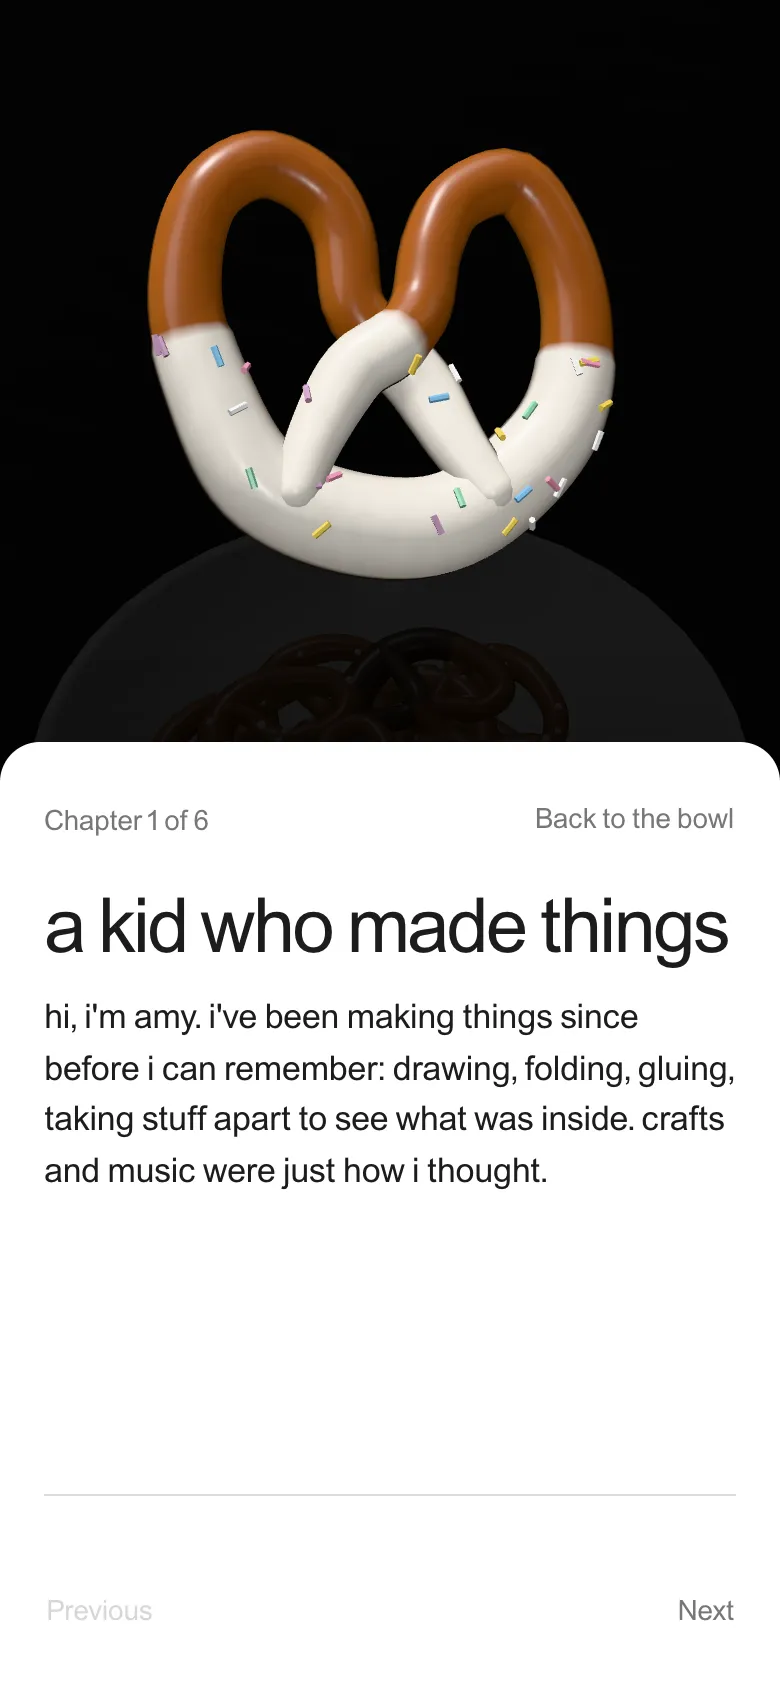
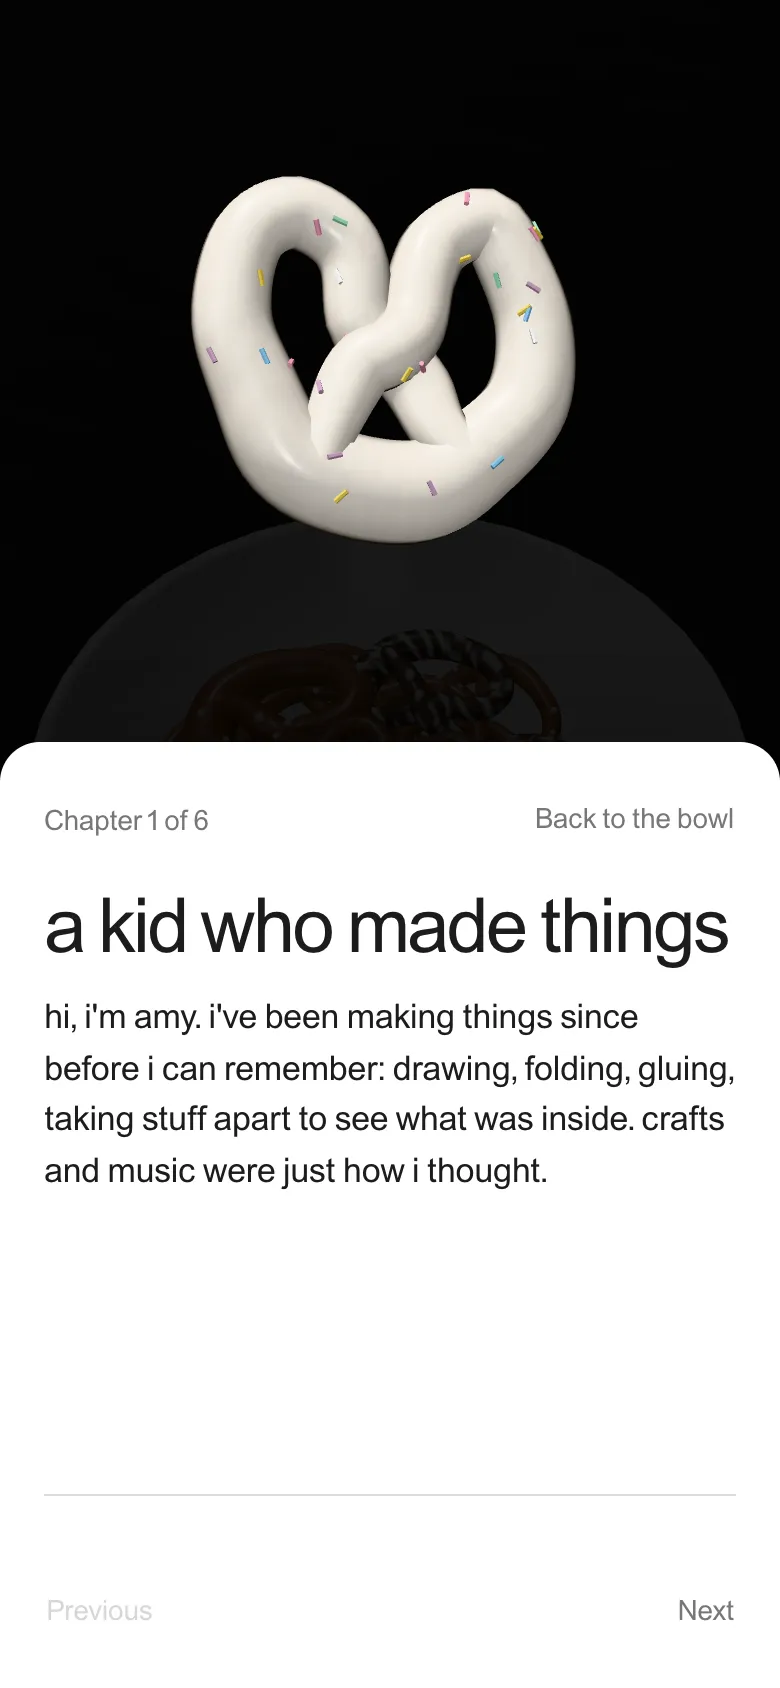
Make each chapter pretzel its own shape, not just its own topping
Recipes now set size, rope thickness, how roughly it was twisted and the
bake, plus full or half dips and a raised drizzle. The bowl's filler gets
its own small thin recipe so the classic salted chapter stands out.

Changed region(s): [[0.1846, 0.0616, 0.8, 0.3697]]

diff --git a/app/book/pretzel-geometry.ts b/app/book/pretzel-geometry.ts
@@ -18,18 +18,38 @@ import { mergeGeometries } from "three/examples/jsm/utils/BufferGeometryUtils.js
 // about .86 units across, bottom at x = -.11. Each chapter of the story gets
 // its own kind: a coating, a topping and a slightly different twist.
 
-export type PretzelKind = "salt" | "sprinkles" | "chocolate" | "everything" | "cinnamon" | "mauve";
+export type PretzelKind = "salt" | "sprinkles" | "chocolate" | "everything" | "cinnamon" | "mauve" | "filler";
 
 type Topping = "salt" | "sprinkles" | "everything" | "cinnamon" | "none";
-type Recipe = { coat?: string; dip?: "half" | "full"; topping: Topping };
+type Bake = "pale" | "golden" | "toasty";
+type Recipe = {
+  topping: Topping;
+  coat?: string;
+  dip?: "half" | "full";
+  drizzle?: string; // thin zigzag lines over the top
+  bake?: Bake;
+  rope?: number; // rope thickness, 1 = a classic soft pretzel
+  size?: number; // across, 1 = .86 units
+  wonk?: number; // how roughly it was twisted, 1 = a careful hand
+};
 
+// Six pretzels that should be told apart at a glance from across the bowl:
+// each differs in outline (size, rope, wonk) as well as finish.
 const RECIPES: Record<PretzelKind, Recipe> = {
-  salt: { topping: "salt" },
-  sprinkles: { coat: "#f3efe6", dip: "half", topping: "sprinkles" },
-  chocolate: { coat: "#3a2015", dip: "half", topping: "none" },
-  everything: { topping: "everything" },
-  cinnamon: { topping: "cinnamon" },
-  mauve: { coat: "#b482aa", dip: "half", topping: "salt" },
+  // A kid's pretzel: small, chubby, all white and covered in sprinkles.
+  sprinkles: { topping: "sprinkles", coat: "#f6f1e7", dip: "full", rope: 1.3, size: .82, wonk: 1.6 },
+  // The textbook one: a big soft pretzel, golden, coarse salt.
+  salt: { topping: "salt", bake: "golden", rope: 1.28, size: 1.16, wonk: .5 },
+  // Made a million times over: fully enrobed, perfectly even, a neat drizzle.
+  chocolate: { topping: "none", coat: "#3a2015", dip: "full", drizzle: "#f3efe6", rope: .92, size: 1, wonk: 0 },
+  // Rough, everything seasoning all over, twisted in a hurry.
+  everything: { topping: "everything", bake: "toasty", rope: 1.05, size: 1.02, wonk: 3 },
+  // Thin and crunchy, pale, crusted in cinnamon sugar.
+  cinnamon: { topping: "cinnamon", bake: "pale", rope: .78, size: .96, wonk: 1 },
+  // Amy's colour: half dipped in mauve, flaky salt, a dark drizzle.
+  mauve: { topping: "salt", coat: "#b482aa", dip: "half", drizzle: "#3a2015", rope: 1, size: 1, wonk: .8 },
+  // The bowl's plain filling: small, thin, crunchy, so the chapters stand out.
+  filler: { topping: "salt", bake: "golden", rope: .82, size: .9, wonk: 1 },
 };
 
 const rand = (seed: number) => {
@@ -60,9 +80,12 @@ function thickness(t: number) {
 
 const RADIUS = .1;
 const COAT_DEPTH = 1.08;
-const DARK = new Color("#7a3410");
-const BAKED = new Color("#b0601f");
-const GOLDEN = new Color("#e8b574");
+// [top crust, body, split] per bake.
+const BAKES: Record<Bake, [Color, Color, Color]> = {
+  pale: [new Color("#a8642a"), new Color("#d39a55"), new Color("#f2d6a2")],
+  golden: [new Color("#7a3410"), new Color("#b0601f"), new Color("#e8b574")],
+  toasty: [new Color("#5a2a10"), new Color("#8f4f22"), new Color("#d8a46a")],
+};
 const SPRINKLES = ["#f4a7c3", "#8fc9f0", "#f7dd6b", "#9ad8b4", "#ffffff", "#c9a2c2"].map(c => new Color(c));
 
 function colourise(geometry: BufferGeometry, colour: Color) {
@@ -76,15 +99,25 @@ function colourise(geometry: BufferGeometry, colour: Color) {
 export function createPretzelGeometry(lowDetail: boolean, kind: PretzelKind = "salt", seed = 0) {
   const recipe = RECIPES[kind];
   const coat = recipe.coat ? new Color(recipe.coat) : null;
+  const drizzle = recipe.drizzle ? new Color(recipe.drizzle) : null;
+  const [DARK, BAKED, GOLDEN] = BAKES[recipe.bake ?? "golden"];
+  const rope = RADIUS * (recipe.rope ?? 1);
   // Each pretzel is twisted by hand, so no two quite match.
+  const wonk = .03 * (recipe.wonk ?? 1);
   const curve = new CatmullRomCurve3(ROPE.map(([u, v, h], i) => new Vector3(
     h,
-    v + (rand(seed * 31 + i) - .5) * .03,
-    u + (rand(seed * 17 + i + 5) - .5) * .03,
+    v + (rand(seed * 31 + i) - .5) * wonk,
+    u + (rand(seed * 17 + i + 5) - .5) * wonk,
   )), false, "centripetal");
   const segments = lowDetail ? 140 : 260;
   const radial = lowDetail ? 10 : 18;
-  const tube = new TubeGeometry(curve, segments, RADIUS, radial, false);
+  const tube = new TubeGeometry(curve, segments, rope, radial, false);
+  // Drizzle runs in diagonal zigzag lines across the top of the pretzel.
+  const drizzled = (p: Vector3, up: number) => {
+    if (!drizzle || up < -.15) return false;
+    const d = p.z * .8 + p.y * .6 + Math.sin(p.y * 22 + seed) * .02;
+    return (((d * 10) % 1) + 1) % 1 < .22;
+  };
 
   // Half-dipped pretzels are dipped belly first, up to just below the twist.
   const dipLine = -.04 + (rand(seed + 3) - .5) * .06;
@@ -102,7 +135,11 @@ export function createPretzelGeometry(lowDetail: boolean, kind: PretzelKind = "s
     p.fromBufferAttribute(position, i).sub(centre).multiplyScalar(thickness(t) * (isCoated ? COAT_DEPTH : 1)).add(centre);
     position.setXYZ(i, p.x, p.y, p.z);
     n.fromBufferAttribute(normal, i);
-    if (isCoated) {
+    if (drizzled(p, n.x)) {
+      c.copy(drizzle!);
+      p.addScaledVector(n, rope * .06);
+      position.setXYZ(i, p.x, p.y, p.z);
+    } else if (isCoated) {
       c.copy(coat!).multiplyScalar(.96 + rand(i) * .06);
     } else {
       // Tops bake dark and glossy; the sides of the belly split open pale
@@ -111,7 +148,6 @@ export function createPretzelGeometry(lowDetail: boolean, kind: PretzelKind = "s
       const ring = Math.floor(i / (radial + 1));
       const crack = Math.max(0, 1 - Math.abs(up + .05) / .35) * Math.exp(-(((t - .5) / .22) ** 2)) * (.55 + .45 * rand(ring * .37 + seed));
       c.copy(BAKED).lerp(DARK, Math.max(0, up) * .55).lerp(GOLDEN, crack);
-      if (recipe.topping === "cinnamon") c.lerp(DARK, .25);
       c.multiplyScalar(.92 + rand(i) * .12);
     }
     colors.push(c.r, c.g, c.b);
@@ -122,7 +158,7 @@ export function createPretzelGeometry(lowDetail: boolean, kind: PretzelKind = "s
   // Round the two cut ends.
   const caps = [0, 1].map(t => {
     const point = curve.getPointAt(t);
-    const cap = new SphereGeometry(RADIUS * thickness(t) * (coated(point) ? COAT_DEPTH : 1), 12, 8);
+    const cap = new SphereGeometry(rope * thickness(t) * (coated(point) ? COAT_DEPTH : 1), 12, 8);
     cap.translate(point.x, point.y, point.z);
     cap.deleteAttribute("uv");
     return colourise(cap, coated(point) ? coat! : BAKED);
@@ -130,12 +166,12 @@ export function createPretzelGeometry(lowDetail: boolean, kind: PretzelKind = "s
   tube.deleteAttribute("uv");
   const dough = mergeGeometries([tube, ...caps])!;
 
-  const toppings = toppingGeometry(recipe, curve, coated, seed, lowDetail);
+  const toppings = toppingGeometry(recipe, curve, coated, seed, lowDetail, rope);
 
-  // Fit to one frame: .86 across, resting on x = -.11.
+  // Fit to one frame: .86 across times the recipe's size, resting on x = -.11.
   dough.computeBoundingBox();
   const box = dough.boundingBox!;
-  const scale = .86 / Math.max(box.max.y - box.min.y, box.max.z - box.min.z);
+  const scale = .86 * (recipe.size ?? 1) / Math.max(box.max.y - box.min.y, box.max.z - box.min.z);
   const mid = box.getCenter(new Vector3());
   for (const g of [dough, toppings]) {
     g.translate(-mid.x, -mid.y, -mid.z);
@@ -151,8 +187,8 @@ export function createPretzelGeometry(lowDetail: boolean, kind: PretzelKind = "s
 
 // Toppings sit on the upper half of the rope. Dipped pretzels only carry them
 // on the coating, where they would stick in a real kitchen.
-function toppingGeometry(recipe: Recipe, curve: CatmullRomCurve3, coated: (p: Vector3) => boolean, seed: number, lowDetail: boolean) {
-  const counts: Record<Topping, number> = { salt: 18, sprinkles: 46, everything: 54, cinnamon: 150, none: 0 };
+function toppingGeometry(recipe: Recipe, curve: CatmullRomCurve3, coated: (p: Vector3) => boolean, seed: number, lowDetail: boolean, rope: number) {
+  const counts: Record<Topping, number> = { salt: 18, sprinkles: 46, everything: 170, cinnamon: 150, none: 0 };
   const count = Math.round(counts[recipe.topping] * (lowDetail ? .6 : 1));
   const pieces: BufferGeometry[] = [];
   const centre = new Vector3(), tangent = new Vector3(), side = new Vector3(), up = new Vector3(1, 0, 0);
@@ -166,7 +202,7 @@ function toppingGeometry(recipe: Recipe, curve: CatmullRomCurve3, coated: (p: Ve
     side.crossVectors(tangent, up).normalize();
     const angle = (r(2) - .5) * (recipe.topping === "salt" ? 1.6 : 2.4);
     dir.copy(up).multiplyScalar(Math.cos(angle)).addScaledVector(side, Math.sin(angle)).normalize();
-    const surface = RADIUS * thickness(t) * (coated(centre) ? COAT_DEPTH : 1);
+    const surface = rope * thickness(t) * (coated(centre) ? COAT_DEPTH : 1);
     p.copy(centre).addScaledVector(dir, surface * .97);
     q.setFromEuler(new Euler(r(3) * 6, r(4) * 6, r(5) * 6));
 
@@ -182,11 +218,11 @@ function toppingGeometry(recipe: Recipe, curve: CatmullRomCurve3, coated: (p: Ve
       piece = new SphereGeometry(1, 6, 4).toNonIndexed();
       // Seeds lie flat on the surface, turned any way round.
       along.setFromUnitVectors(new Vector3(0, 0, 1), dir).multiply(new Quaternion().setFromAxisAngle(new Vector3(0, 0, 1), r(7) * 6));
-      m.compose(p, along, new Vector3(.022, .013, .006));
+      m.compose(p, along, new Vector3(.03, .018, .008));
       colour = new Color(r(8) < .5 ? "#eadcb4" : "#d9c08a");
     } else if (kind === "poppy") {
       piece = new SphereGeometry(1, 5, 3).toNonIndexed();
-      m.compose(p, q, new Vector3(.008, .008, .008));
+      m.compose(p, q, new Vector3(.011, .011, .011));
       colour = new Color("#1f1d24");
     } else if (kind === "sprinkles") {
       piece = new CylinderGeometry(1, 1, 1, 6).toNonIndexed();

diff --git a/app/book/pretzel-story.tsx b/app/book/pretzel-story.tsx
@@ -116,8 +116,8 @@ const ignoreRaycast = () => null;
 
 function FillerPretzels() {
   const materials = usePretzelMaterials();
-  const a = usePretzelShape("salt", 101);
-  const b = usePretzelShape("salt", 202);
+  const a = usePretzelShape("filler", 101);
+  const b = usePretzelShape("filler", 202);
   return <group name="filler-pretzels">
     {FILLER_POSES.map((pose, i) => {
       const shape = i % 2 ? a : b;
